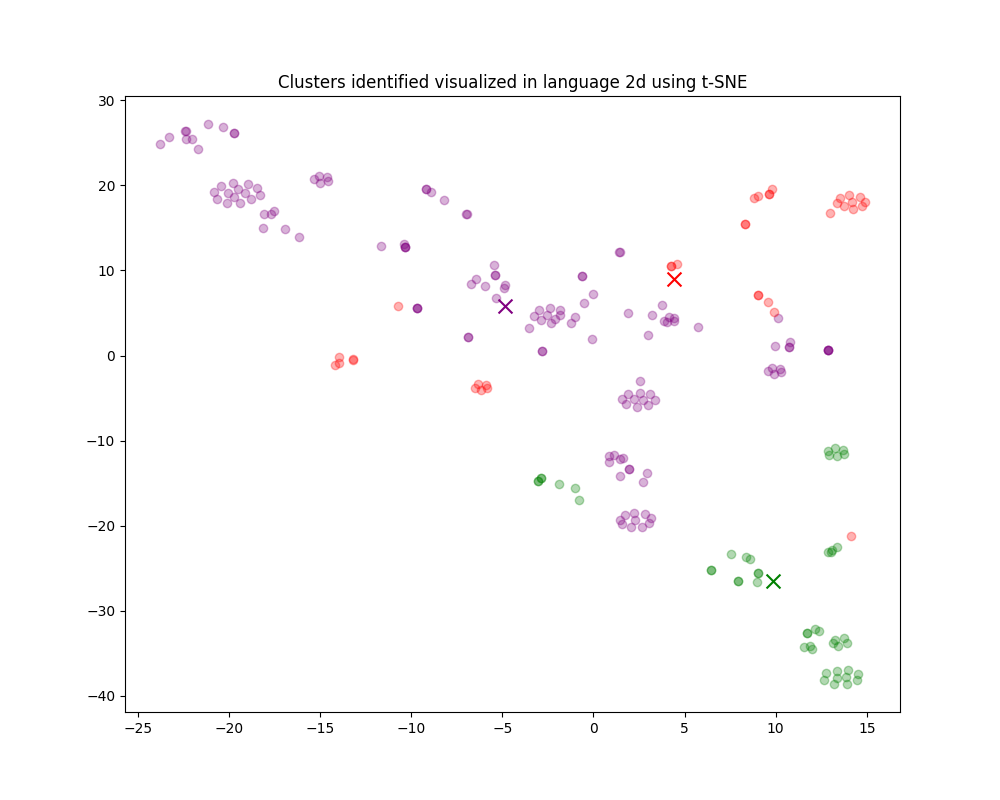
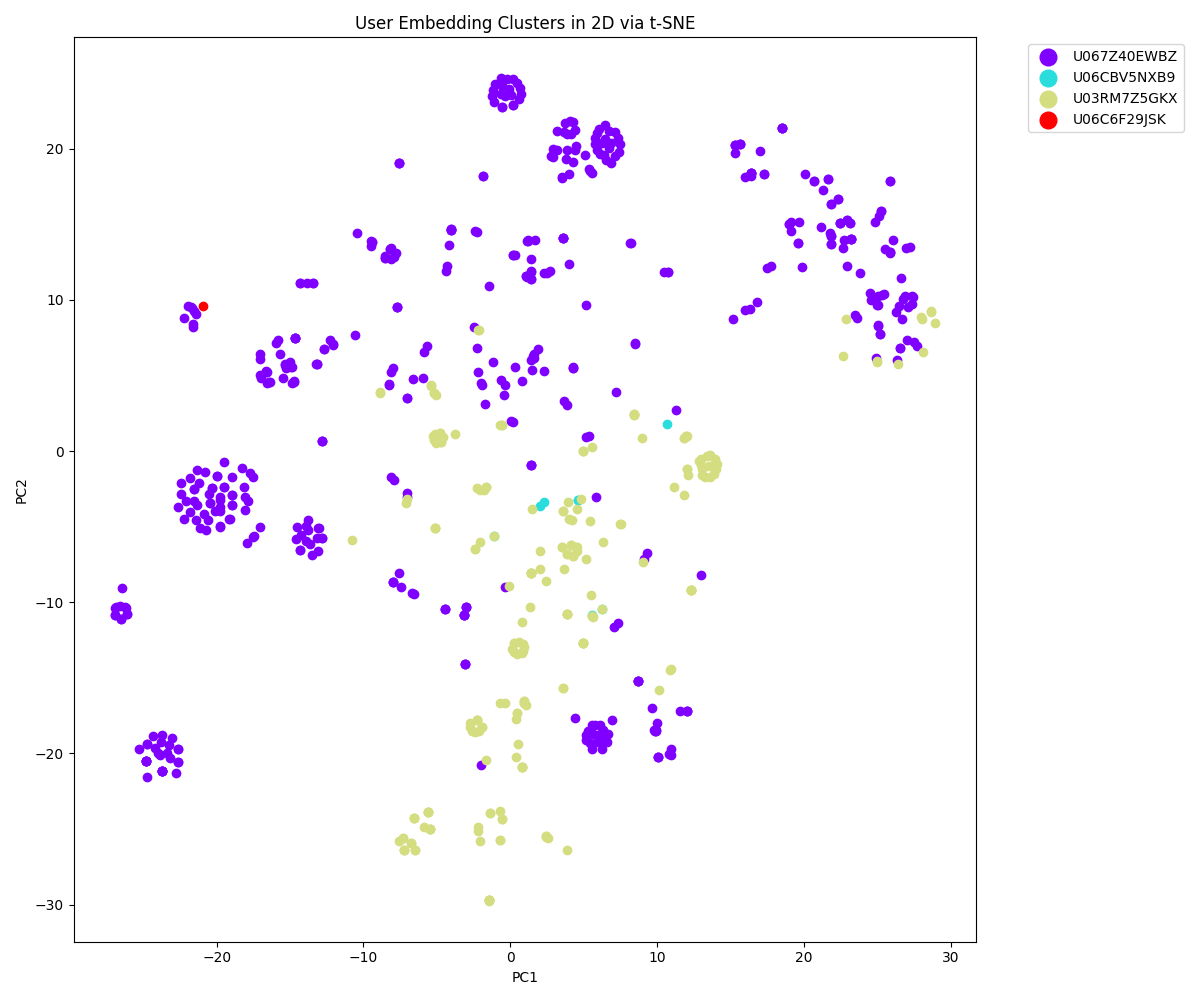
Update user embedding visualization with t-SNE clustering

diff --git a/embedding.py b/embedding.py
@@ -27,39 +27,46 @@ EMBEDDING_MODEL_PRICE_PER_TOKEN = {
 
 
 def plot_embeddings(embeddings):
-    # ref: https://qiita.com/leolui2013/items/40835bf7ab44a6c136b5
-    # リストをNumPy配列に変換
-    embeddings_array = np.array(embeddings)
-
-    # KMeansクラスタリングを実行
-    n_clusters = 3
-    kmeans = KMeans(n_clusters=n_clusters, init="k-means++", random_state=42)
-    kmeans.fit(embeddings_array)
-    labels = kmeans.labels_
-
-    # t-SNEを使用して次元削減
+    users = []
+    values = []
+    for data in embeddings:
+        users.append(data["user"])
+        values.append(data["values"])
+    values = np.array(values)
+    # TSNEで2次元に削減
+    # n_components は、削減後の次元数です。
+    # perplexity は、近傍の数を決定し、高い値はデータ間の大局的な構造を、低い値は局所的な構造を捉えます。
+    # init は、初期化方法
+    # learning_rate は、学習率
     tsne = TSNE(
-        n_components=2, perplexity=15, random_state=42, init="random", learning_rate=100
+        n_components=2,
+        perplexity=50,
+        random_state=42,
+        init="random",
+        learning_rate=100,
     )
-    vis_dims2 = tsne.fit_transform(embeddings_array)
+    embeddings_reduced = tsne.fit_transform(values)
 
-    # 分割されたデータのX,Y座標を取得
-    x = vis_dims2[:, 0]
-    y = vis_dims2[:, 1]
+    # プロットの準備（ユーザーごとに異なる色で）
+    plt.figure(figsize=(12, 10))
+    colors = plt.cm.rainbow(
+        np.linspace(0, 1, len(set(users)))
+    )  # ユーザーごとに色を決定
 
-    # クラスタごとにプロットするコードを再実行
-    plt.figure(figsize=(10, 8))
-    for category, color in enumerate(["purple", "green", "red"]):
-        xs = x[labels == category]
-        ys = y[labels == category]
-        plt.scatter(xs, ys, color=color, alpha=0.3)
+    for user, color in zip(set(users), colors):
+        indices = [i for i, u in enumerate(users) if u == user]
+        plt.scatter(
+            embeddings_reduced[indices, 0],
+            embeddings_reduced[indices, 1],
+            color=color,
+            label=user,
+        )
 
-        avg_x = np.mean(xs)
-        avg_y = np.mean(ys)
-
-        plt.scatter(avg_x, avg_y, marker="x", color=color, s=100)
-
-    plt.title("Clusters identified visualized in language 2d using t-SNE")
+    plt.xlabel("PC1")
+    plt.ylabel("PC2")
+    plt.title("User Embedding Clusters in 2D via t-SNE")
+    plt.legend(markerscale=2, bbox_to_anchor=(1.05, 1), loc="upper left")
+    plt.tight_layout()
     plt.show()
 
 

diff --git a/embedding_user.py b/embedding_user.py
@@ -27,6 +27,7 @@ def main(db_file, user, model, dry_run, pinecone_index, view):
     total_cost = 0
     total_token_size = 0
     embeddings = []
+    users = []
     messages = get_messages(db_file, user_id=user, channel_id=None)
     db = TinyDB(db_file)
     Message = Query()
@@ -48,7 +49,7 @@ def main(db_file, user, model, dry_run, pinecone_index, view):
 
         # view embeddings
         if embedding is not None and view:
-            embeddings.append(embedding)
+            embeddings.append({"user": message["user"], "values": embedding})
 
         # upsert the message to pinecone
         if embedding is not None and pinecone_index:
